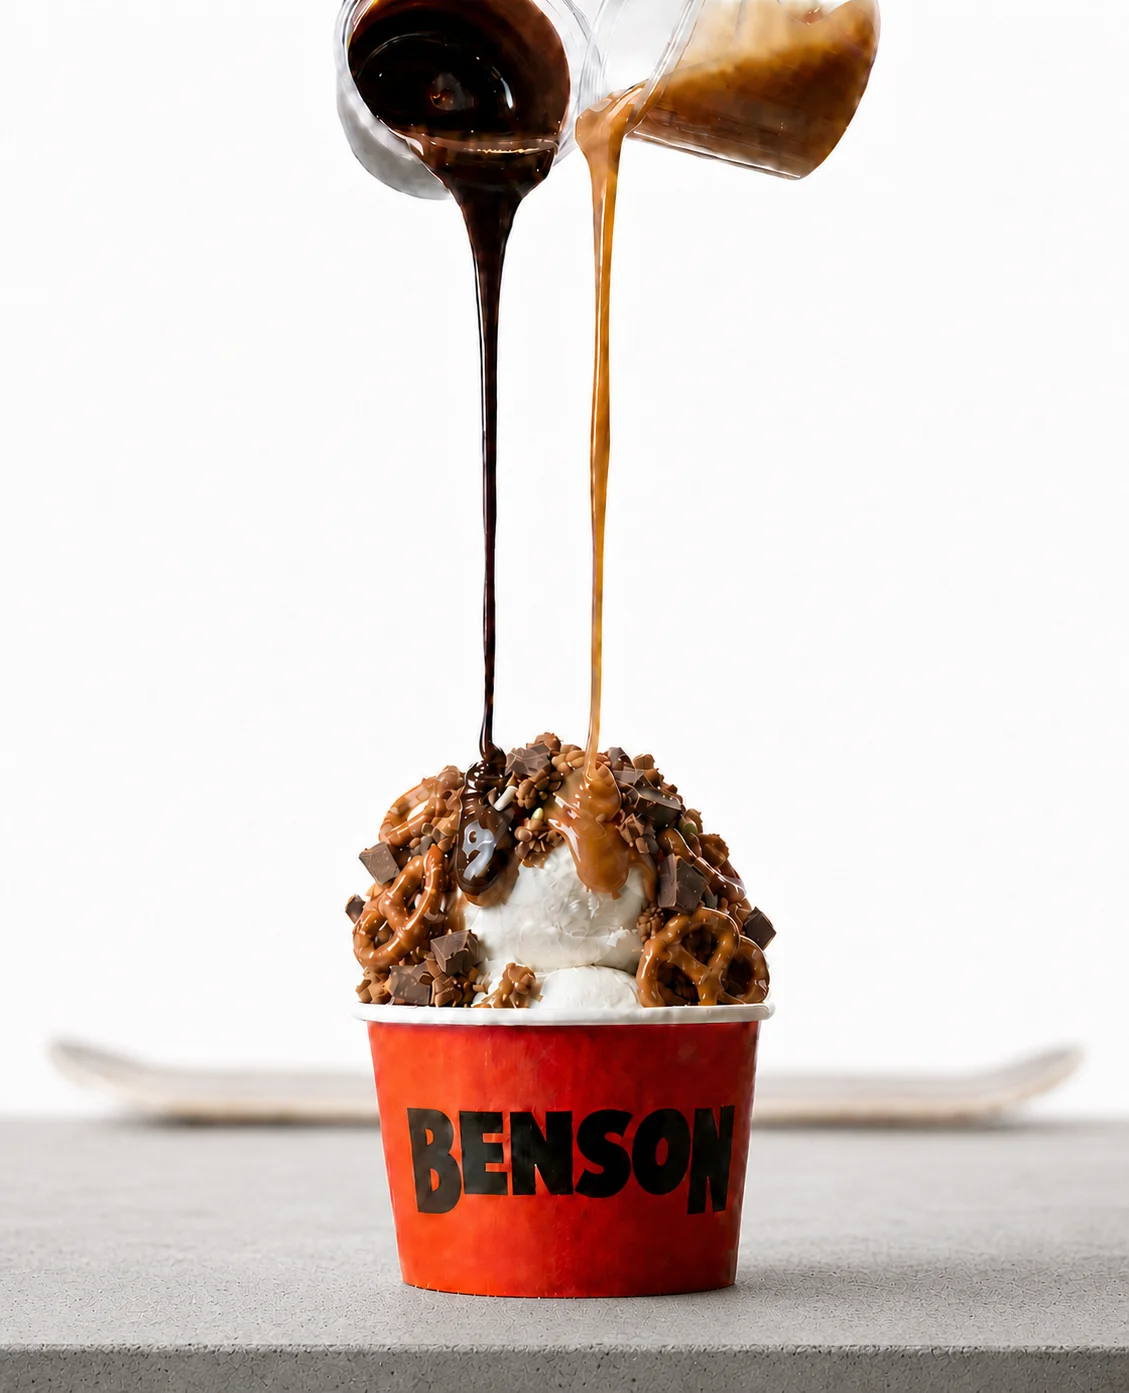
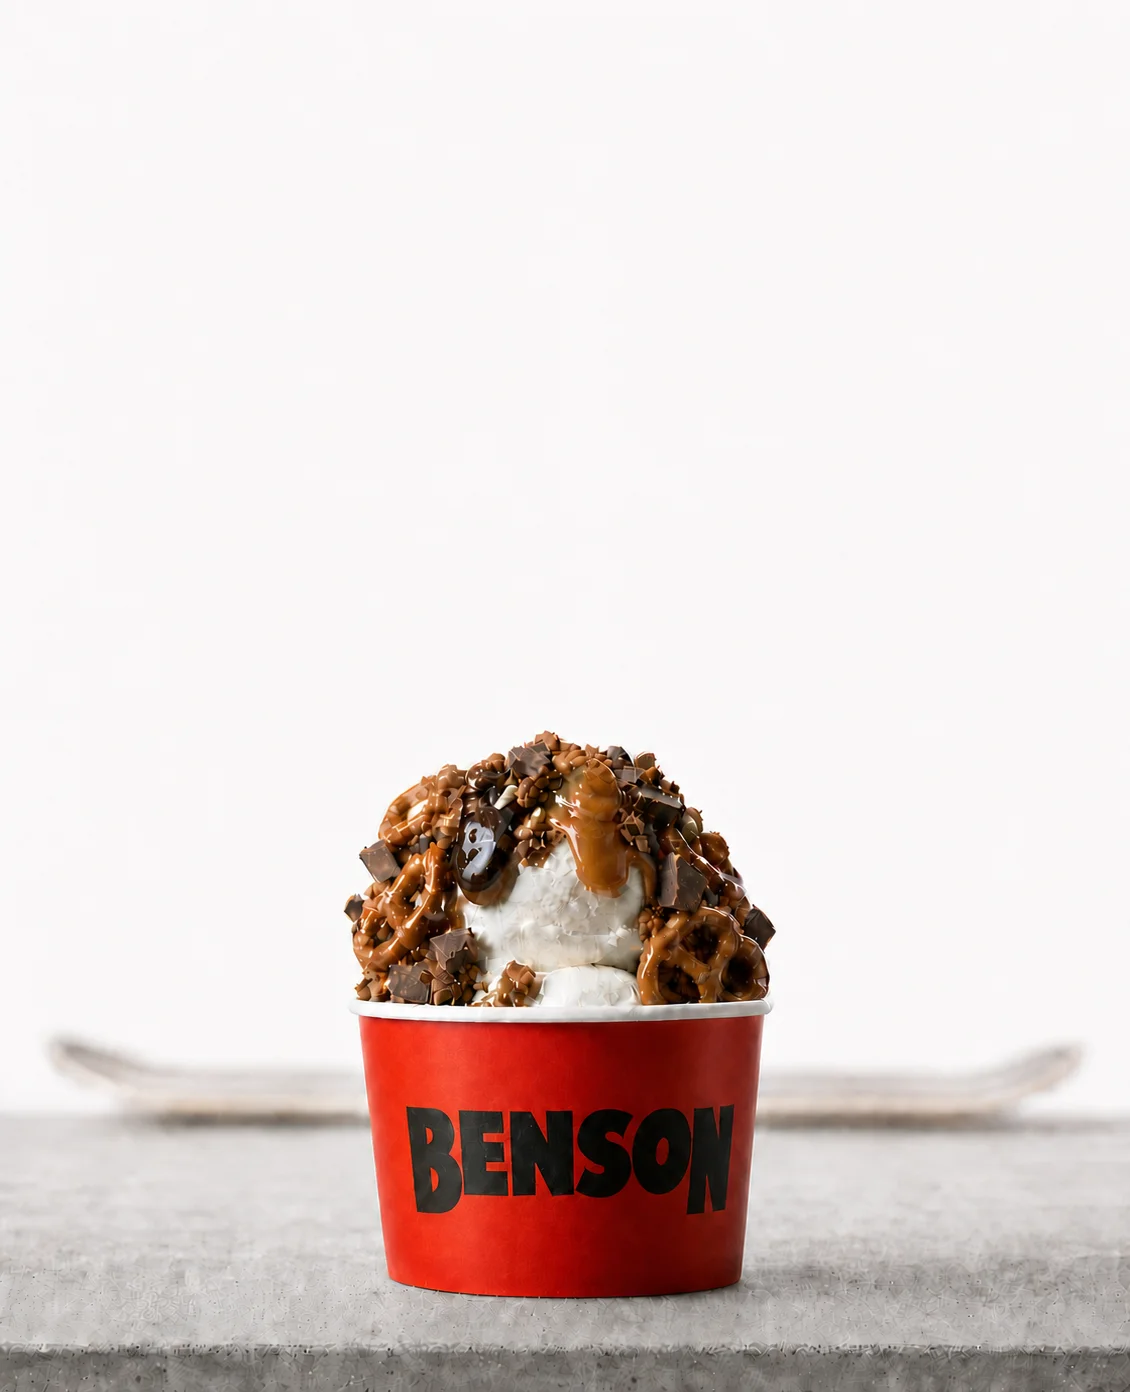
BENSON cup-feature 이미지 교체 + design handoff 프로모 포스터 추가
이미지 교체:
- bold-topping.webp 새 PNG(sauce-pour 제거된 클린 컷)로 갱신 (1.6MB → 64KB WebP quality 85)

새 PROMO POSTER 섹션 (페이지 끝, list-bar 앞):
- design_handoff_benson_poster 핸드오프 충실 재현
- 1130x1392 portrait, aspect-ratio 보존, container-type: inline-size + cqw로 비율 그대로 스케일
- 카피블록: eyebrow row(빨간 dash + BENSON ICE CREAM SHOP) → headline(Benson scoops the STREET) → body(KR/EN i18n) → tagline(AMERICAN STYLE · STREET SOUL)
- 핸드오프 디자인 토큰 그대로: #d83a1e brand red, #1b1a18 ink, #2a2825 body ink, #f4f2ef canvas
- 폰트 추가: Archivo + Archivo Black (Google Fonts), Pretendard Variable (jsdelivr CDN)
- body/label/tagline은 clamp()로 mobile 최소 가독성 보정
- i18n 토글 selector에 .promo-poster 추가

diff --git a/pages/projects/benson.jsx b/pages/projects/benson.jsx
@@ -230,9 +230,10 @@ export default function Benson() {
         <link rel="preconnect" href="https://fonts.googleapis.com" />
         <link rel="preconnect" href="https://fonts.gstatic.com" crossOrigin="anonymous" />
         <link
-          href="https://fonts.googleapis.com/css2?family=Playfair+Display:wght@700;800;900&family=Bowlby+One&family=Barlow+Condensed:wght@400;600;700;900&family=Inter:wght@400;500;600;700&display=swap"
+          href="https://fonts.googleapis.com/css2?family=Playfair+Display:wght@700;800;900&family=Bowlby+One&family=Barlow+Condensed:wght@400;600;700;900&family=Inter:wght@400;500;600;700&family=Archivo:wght@500;600;700;900&family=Archivo+Black&display=swap"
           rel="stylesheet"
         />
+        <link rel="stylesheet" href="https://cdn.jsdelivr.net/gh/orioncactus/pretendard@v1.3.9/dist/web/variable/pretendardvariable.min.css" />
       </Head>
 
       <SiteNav />
@@ -642,6 +643,29 @@ export default function Benson() {
           </section>
         </div>
 
+        {/* ── PROMO POSTER (handoff design — 1130x1392 portrait) ── */}
+        <section className="promo-poster">
+          <img src="/images/benson/bold-topping.webp" alt="BENSON ice cream cup" className="promo-poster-bg" />
+          <div className="promo-poster-copy">
+            <div className="promo-poster-eyebrow">
+              <span className="promo-poster-dash" aria-hidden="true"></span>
+              <span className="promo-poster-label">BENSON ICE CREAM SHOP</span>
+            </div>
+            <h2 className="promo-poster-headline">
+              Benson<br />scoops<br />the <span className="promo-poster-accent">street</span>
+            </h2>
+            <p className="promo-poster-body">
+              <span data-ko>다이내믹한 플레이버, 볼드한 토핑, 진한 유지방이 만드는 묵직한 부드러움 — 스케이트 파크의 곡선을 한 스쿱에 담았습니다.</span>
+              <span data-en>Dynamic flavors, bold toppings, and rich butterfat folded into a heavy, melting softness — the curves of a skatepark caught in a single scoop.</span>
+            </p>
+            <div className="promo-poster-tagline">
+              <span className="promo-poster-tag-ink">AMERICAN STYLE</span>
+              <span className="promo-poster-tag-dot" aria-hidden="true"></span>
+              <span className="promo-poster-tag-red">STREET SOUL</span>
+            </div>
+          </div>
+        </section>
+
         <div className="list-bar"><a href="#" onClick={(e) => { e.preventDefault(); toTop(); }}>LIST</a></div>
         <button className="top-btn" onClick={toTop} aria-label="Back to top">&#8593;</button>
       </main>
@@ -685,6 +709,81 @@ export default function Benson() {
         /* 컵 제품 컷 — 풀폭으로 깔기 (배경 베이지 톤으로 위 flavor-feature와 자연스럽게 이어짐) */
         .cup-feature { width: 100%; line-height: 0; }
         .cup-feature img { width: 100%; display: block; }
+
+        /* ── PROMO POSTER (design handoff — 1130x1392, cqw로 비율 보존 스케일) ── */
+        .promo-poster {
+          position: relative;
+          width: 100%;
+          max-width: 1130px;
+          aspect-ratio: 1130 / 1392;
+          margin: 60px auto;
+          background: #f4f2ef;
+          overflow: hidden;
+          container-type: inline-size;
+          font-family: 'Pretendard Variable', Pretendard, sans-serif;
+        }
+        .promo-poster-bg {
+          position: absolute; inset: 0;
+          width: 100%; height: 100%;
+          object-fit: cover; display: block;
+        }
+        .promo-poster-copy {
+          position: absolute;
+          top: 7.61cqw; left: 8.50cqw; right: 8.50cqw;
+          display: flex; flex-direction: column;
+          gap: 3.01cqw;
+          z-index: 2;
+        }
+        .promo-poster-eyebrow {
+          display: flex; align-items: center; gap: 1.24cqw;
+        }
+        .promo-poster-dash {
+          width: 3.01cqw; height: 0.53cqw;
+          background: #d83a1e; border-radius: 0.27cqw;
+        }
+        .promo-poster-label {
+          font-family: 'Archivo', sans-serif;
+          font-weight: 700;
+          font-size: clamp(11px, 1.68cqw, 19px);
+          letter-spacing: 0.32em;
+          color: #1b1a18;
+        }
+        .promo-poster-headline {
+          font-family: 'Archivo Black', sans-serif;
+          font-weight: 400;
+          font-size: 9.56cqw;
+          line-height: 0.92;
+          letter-spacing: -0.02em;
+          color: #1b1a18;
+          text-transform: uppercase;
+          margin: 0;
+        }
+        .promo-poster-accent { color: #d83a1e; }
+        .promo-poster-body {
+          font-size: clamp(13px, 2.39cqw, 27px);
+          line-height: 1.72;
+          font-weight: 500;
+          color: #2a2825;
+          max-width: 67.26cqw;
+        }
+        .promo-poster-tagline {
+          display: flex; align-items: center;
+          gap: 1.42cqw; margin-top: 0.35cqw;
+        }
+        .promo-poster-tag-ink,
+        .promo-poster-tag-red {
+          font-family: 'Archivo', sans-serif;
+          font-weight: 900;
+          font-size: clamp(12px, 1.95cqw, 22px);
+          letter-spacing: 0.04em;
+        }
+        .promo-poster-tag-ink { color: #1b1a18; }
+        .promo-poster-tag-red { color: #d83a1e; }
+        .promo-poster-tag-dot {
+          width: 0.62cqw; height: 0.62cqw;
+          min-width: 5px; min-height: 5px;
+          background: #d83a1e; border-radius: 50%;
+        }
 
         /* ── 첫 이미지(스케이트 사진) 4-corner 스티커 (ㄹ-pattern) ── */
         .full-img-stickers { position: relative; }
@@ -890,16 +989,19 @@ export default function Benson() {
         .si-sections .si-section-title { font-family: 'Barlow Condensed', 'Bebas Neue', sans-serif; font-size: clamp(36px, 5vw, 56px); line-height: 1.1; margin-bottom: 24px; letter-spacing: 1px; font-weight: 700; }
         .si-sections .si-section-desc { font-size: 15px; line-height: 1.9; color: var(--si-text-mid); max-width: 680px; font-weight: 300; }
 
-        /* KR/EN toggle — si-sections + project-info + hero (default: KR) */
+        /* KR/EN toggle — si-sections + project-info + hero + promo-poster (default: KR) */
         .si-sections [data-en],
         .project-info [data-en],
-        .hero [data-en] { display: none; }
+        .hero [data-en],
+        .promo-poster [data-en] { display: none; }
         :global(html[lang="en"]) .si-sections [data-ko],
         :global(html[lang="en"]) .project-info [data-ko],
-        :global(html[lang="en"]) .hero [data-ko] { display: none; }
+        :global(html[lang="en"]) .hero [data-ko],
+        :global(html[lang="en"]) .promo-poster [data-ko] { display: none; }
         :global(html[lang="en"]) .si-sections [data-en],
         :global(html[lang="en"]) .project-info [data-en],
-        :global(html[lang="en"]) .hero [data-en] { display: revert; }
+        :global(html[lang="en"]) .hero [data-en],
+        :global(html[lang="en"]) .promo-poster [data-en] { display: revert; }
 
         /* 01 CONCEPT */
         .si-sections .si-concept-grid { display: grid; grid-template-columns: 1fr 1fr; gap: 80px; align-items: center; margin-top: 60px; }
